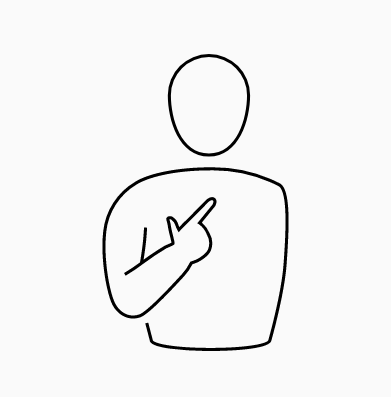
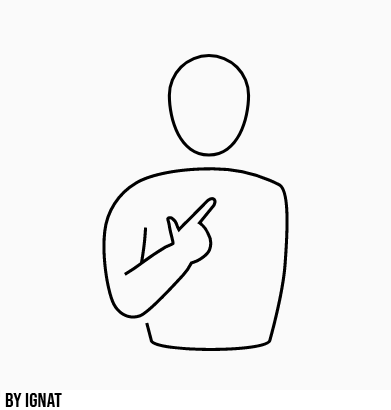
Adding attribution and buttons

diff --git a/pages/projects.html b/pages/projects.html
@@ -25,50 +25,36 @@
           </div>
 
           <div class="container">
-            <img src="../images/assignment.jpg" alt="Blackboard with things written on it" style="width:100%; height:500px;">
+            <img src="../images/assignment.png" alt="Blackboard with things written on it" style="width:100%; height:500px;">
           </div>
   
-    <body>
-        <div class="row">
-            <div class="column">
-              <img src="../images/coding-screen.jpg" alt="Placeholder for project" style="width:40%">
-            </div>
-            <div class="column">
-              <img src="../images/coding-screen.jpg" alt="Placeholder for project" style="width:40%">
-            </div>
-        </div>
-    </body>
-    <body>
-        <div class="row">
-          <div class="column" style="background-color:#A2A7A5;">
-            <h2>Project 1</h2>
-            <p>Lorem ipsum</p>
-          </div>
-          <div class="column" style="background-color:#A2A7A5;">
-            <h2>Project 2</h2>
-            <p>Lorem Ipsum</p>
-          </div>
-        </div>
-
-        <body>
-            <div class="row">
-                <div class="column">
-                  <img src="../images/coding-screen.jpg" alt="Placeholder for project" style="width:40%">
-                </div>
-                <div class="column">
-                  <img src="../images/coding-screen.jpg" alt="Placeholder for project" style="width:40%">
-                </div>
-            </div>
-        </body>
-        <body>
-            <div class="row">
-              <div class="column" style="background-color:#A2A7A5;">
-                <h2>Project 3</h2>
-                <p>Lorem ipsum</p>
-              </div>
-              <div class="column" style="background-color:#A2A7A5;">
-                <h2>Project 4</h2>
-                <p>Lorem Ipsum</p>
-              </div>
-            </div>
-</html>
+  <div class="box">
+      <button onclick="comingsoon()" class="button">First Assignment</button>
+  </div>
+  <div class="box">
+    <button onclick="comingsoon()" class="button">Second Assignment</button>
+  </div>
+  <div class="box">
+    <button onclick="comingsoon()" class="button">Third Assignment</button>
+  </div>
+  <div class="box">
+    <button onclick="comingsoon()" class="button">Fourth Assignment</button>
+  </div>
+  <div class="box">
+    <button onclick="comingsoon()" class="button">Fifth Assignment</button>
+  </div>
+  <div class="box">
+    <button onclick="comingsoon()" class="button">Sixth Assignment</button>
+  </div>
+  <div class="box">
+    <button onclick="comingsoon()" class="button">Seventh Assignment</button>
+  </div>
+  <div class="box">
+    <button onclick="comingsoon()" class="button">Eigth Assignment</button>
+  </div>
+  <div class="box">
+    <button onclick="comingsoon()" class="button">Ninth Assignment</button>
+  </div>
+  <div class="box">
+    <button onclick="comingsoon()" class="button">Tenth Assignment</button>
+  </div>

diff --git a/pages/experiences.html b/pages/experiences.html
@@ -25,7 +25,7 @@
         </div>
 
         <body>
-            <img src="../images/pc-building.jpg" alt="Putting a CPU cooler on the CPU" width="auto" height="325px">
+            <img src="../images/pc-building.png" alt="Putting a CPU cooler on the CPU" width="auto" height="325px">
     
             <div id="textrow4">
                 <p>
@@ -46,7 +46,7 @@
         <br>
     
         <body>
-            <img src="../images/abstract-technology.jpg" alt="An abstract image of a cellphone with colors flowing from the screen" width="auto" height="270px">
+            <img src="../images/abstract-technology.png" alt="An abstract image of a cellphone with colors flowing from the screen" width="auto" height="300px">
             <div id="textrow5">
                 <p>
                     <strong>Why did I take this course?</strong> 
@@ -64,7 +64,7 @@
         <br>
     
         <body>
-            <img src="../images/coding-screen.jpg" alt="Screen of Code" width="auto" height="400px">
+            <img src="../images/coding-screen.png" alt="Screen of Code" width="auto" height="305px">
             <div id="textrow6">
                 <p> 
                     <strong>What do I hope to achieve?</strong> 
@@ -75,17 +75,20 @@
                     My main passion is in medicine, so one day I hope I can develop a program or tool that will be able to assist doctors and patients around the world. 
                 </p>
             </div>
-            <body>
+
+        <body>
+            
             <div id="websitetest" class="center">
+                
                 <button onclick="myFunction()">Verify the website's coding!</button>
 
-                <p id="demo"></p>
+                    <p id="demo"></p>
+            <script>
                 
-                <script>
                 function myFunction() {
                   document.getElementById("demo").innerHTML = "This website functions as it should be!";
                 }
-                </script>
+             </script>
                 
             </body>
         </body>

diff --git a/styles/main.css b/styles/main.css
@@ -65,6 +65,16 @@
   height: 200px;
 }
 
+figure {
+  padding: 0px;
+  margin: 0px;
+}
+figcaption {
+  color: white;
+  font-style: italic;
+  margin: 0px
+}
+
 /*textbox1 on home*/
   #textrow1{
     font-size: 25px;
@@ -73,12 +83,12 @@
     padding: 10px;
     border: black solid ;
     background-color:#A2A7A5;
-    margin: 75px;
+    margin: 0px;
     margin-top: 0px;
     margin-bottom: 0px;
-    display: inline-flex;
+    display: block;
     float: right;
-    margin-right: 250px;
+    margin-right: 175px;
     font-family: 'Noto Sans JP', sans-serif;
     box-shadow: 0 12px 16px 0 rgba(0,0,0,0.24), 0 17px 50px 0 rgba(0,0,0,0.19);
   }
@@ -123,13 +133,13 @@
   #textrow4{
     font-size: 25px;
     width: 70%;
-    height: 300px;
+    height: 275px;
     padding: 10px;
     border: black solid ;
     background-color:#A2A7A5;
     margin: 50px;
     margin-top: 0px;
-    margin-bottom: 150px;
+    margin-bottom: 0px;
     display: inline-flex;
     float: right;
     margin-right: 0px;
@@ -147,10 +157,10 @@
     background-color:#A2A7A5;
     margin: 50px;
     margin-top: 0px;
-    margin-bottom: 150px;
+    margin-bottom: 20px;
     display: inline-flex;
     float: right;
-    margin-right: 175px;
+    margin-right: 150px;
     font-family: 'Noto Sans JP', sans-serif;
     box-shadow: 0 12px 16px 0 rgba(0,0,0,0.24), 0 17px 50px 0 rgba(0,0,0,0.19);
 }
@@ -169,7 +179,7 @@
     margin-bottom: 0px;
     display: inline-flex;
     float: right;
-    margin-right: 100 px;
+    margin-right: 150px;
     font-family: 'Noto Sans JP', sans-serif;
     box-shadow: 0 12px 16px 0 rgba(0,0,0,0.24), 0 17px 50px 0 rgba(0,0,0,0.19);
 }
@@ -191,6 +201,14 @@
   font-family: 'Noto Sans JP', sans-serif;
 }
 
+/*buttons for assignment*/
+.box {
+  width: 18%;
+  display: inline-block;
+  height: auto;
+  text-align: center;
+  margin-left: 20px;
+}
 /* First two sets of images side by side on projects page*/
   .column {
     float: left;

diff --git a/index.html b/index.html
@@ -11,7 +11,6 @@
         <link rel="preconnect" href="https://fonts.gstatic.com">
 <link href="https://fonts.googleapis.com/css2?family=Noto+Sans+JP:wght@100&display=swap" rel="stylesheet">
     </head>
-
     <body>
         <h1>Travis Portfolio</h1>
         <div id="links" class="sticky">
@@ -24,7 +23,7 @@
     </body>
   
     <body>
-        <img src="images/about-me.png" alt="A figure pointing at himself" width="285px" height="auto">
+             <img src="images/about-me.png" alt="A figure pointing at himself" width="285px" height="auto">
 
         <div id="textrow1">
             <p>
@@ -68,8 +67,7 @@
     <br>
 
     <body>
-        <img src="images/video-games.jpg" alt="Two people holding controllers" width="450" height="auto">
-
+            <img src="images/video-games.png" alt="Two people holding controllers" width="450" height="auto">
         <div id="textrow3">
             <p> 
                 <strong>Free Time</strong> 

diff --git a/styles/main.js b/styles/main.js
@@ -1,4 +1,4 @@
- 
+ /* Whats your name button */
   function getName(){
     let name = prompt("What's your name?");
     alert("Nice to meet you, " + name);
@@ -6,3 +6,7 @@
 
   let firstname = "Travis";
   console.log(firstname);
+
+  function comingsoon() {
+    alert("This assignment will be coming soon");
+  }
